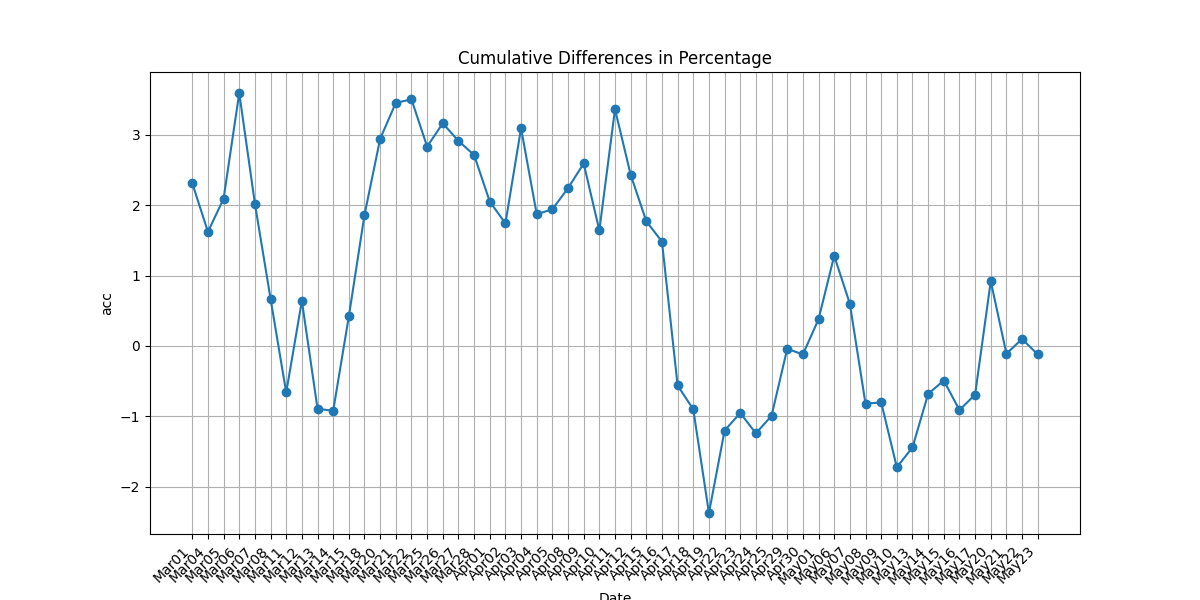
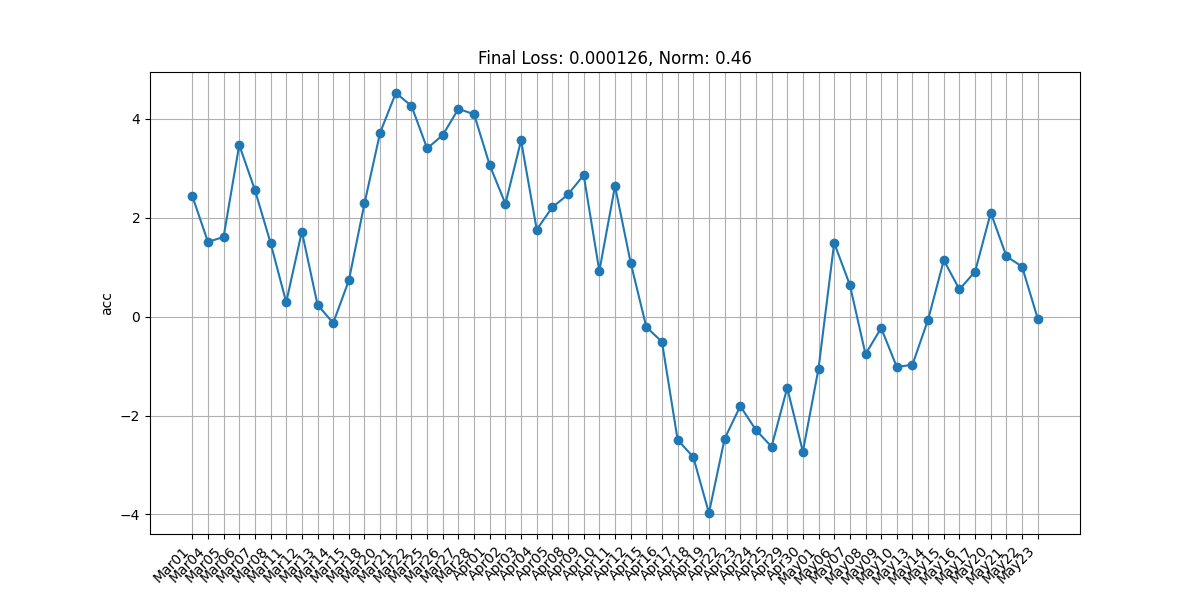
feat(project): add README.md and enhance model evaluation
Added a comprehensive README.md in Japanese, detailing project setup, dependencies, and usage instructions. Enhanced model evaluation in diff.py by normalizing final results and updating plot titles for better clarity. Updated latest-acc.png with new evaluation results.

diff --git a/diff.py b/diff.py
@@ -93,7 +93,7 @@ history = model.fit(
 
 # モデルの評価
 loss = model.evaluate(X, y)
-pprint(f"Final Loss: {loss:.6f}\n")
+pprint(f"Final Loss: {loss:.6f}")
 
 # 累積結果を格納するリストを初期化
 cumulative_results = []
@@ -109,13 +109,16 @@ def accumulate_and_collect(accumulated, current):
 
 # 初期値0でreduceを実行
 final_result = reduce(accumulate_and_collect, differences_percentage, 0)
-print(cumulative_results)
+pprint(np.array(cumulative_results))
 
+min_val = min(cumulative_results)
+max_val = max(cumulative_results)
+norm = (final_result - min_val) / (max_val - min_val)
+print(f"Normalized_value: {norm:.2f}")
 # グラフをプロット
 plt.figure(figsize=(12, 6))
 plt.plot([date.strftime("%b%d") for date in shortdates], cumulative_results, marker="o")
-plt.title("Cumulative Differences in Percentage")
-plt.xlabel("Date")
+plt.title(f"Final Loss: {loss:.6f}, Norm: {norm:.2f}")
 plt.ylabel("acc")
 plt.grid(which="both")
 # x軸のラベルを45度回転させる

diff --git a/README.md b/README.md
@@ -1,0 +1,39 @@
+了解しました。以下は日本語での概要のみの`README.md`です。
+
+---
+
+# TensorFlowを用いた回帰モデルの実装
+
+このプロジェクトは、JSONファイルから読み込んだデータを用いてTensorFlowとKerasを使用した回帰モデルのトレーニングを行い、モデルの性能を評価するものです。
+
+## 必要条件
+
+- Python 3.x
+- TensorFlow
+- NumPy
+- Matplotlib
+
+必要なパッケージは以下のコマンドでインストールできます。
+
+```bash
+pip install tensorflow numpy matplotlib
+```
+
+## プロジェクト構成
+
+- `seikika.json`: 入力データを含むJSONファイル
+- `main.py`: データの読み込み、モデルのトレーニング、結果のプロットを行うメインスクリプト
+- `./image/latest-acc.png`: 結果の累積プロットの出力画像
+
+## 使用方法
+
+1. JSONファイルを `./json/` ディレクトリに配置し、 `seikika.json` と名前を付けます。
+2. `main.py` スクリプトを実行します。
+
+```bash
+python main.py
+```
+
+## ライセンス
+
+このプロジェクトはMITライセンスの下で提供されています。詳細は[LICENSE](LICENSE)ファイルをご覧ください。
